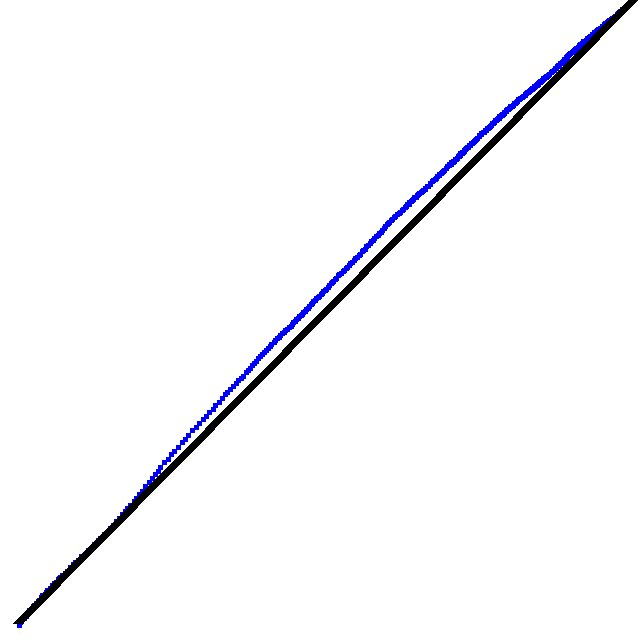
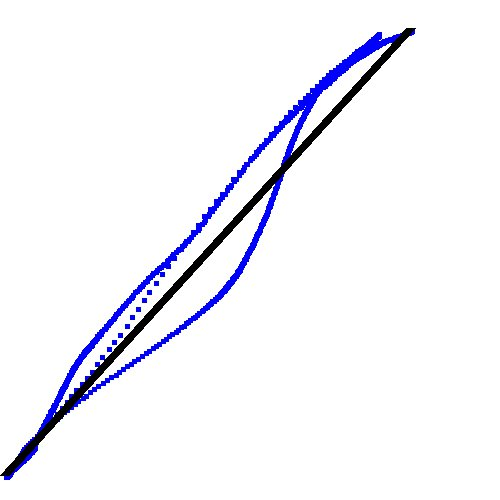
all xz plane directions complete commit 5

Changed region(s): [[0.0, 0.03, 0.96, 0.99], [0.96, 0.0, 1.0, 0.03]]

diff --git a/drawInputBetter.py b/drawInputBetter.py
@@ -4,6 +4,7 @@ import cv2
 import os
 import time
 from djitellopy import Tello
+import math
 
 class UserStrokeInput:
     def __init__(self):
@@ -11,11 +12,11 @@ class UserStrokeInput:
         self.testimg2 = None
         self.pos1 = None
         self.pos2 = None
-        self.scalar = .05
-        self.timeConst = .3
+        self.distscalar = .056
+        self.timeConst = .4
     def input_image(self):
         pygame.init()
-        screen = pygame.display.set_mode((640, 640))
+        screen = pygame.display.set_mode((500, 500))
         pygame.display.set_caption("Insert Dance Move (Single Straight Line)")
         white_color = pygame.Color(255, 255, 255)
         blue_color = pygame.Color(0, 0, 255)
@@ -43,7 +44,7 @@ class UserStrokeInput:
             if(loop == False):
                 pygame.image.save(screen,"screenshot.jpg")
                 self.img = cv2.imread('screenshot.jpg', 0)
-                time.sleep(3)
+                # time.sleep(3)
                 pygame.quit()
                 break
             
@@ -60,16 +61,18 @@ class UserStrokeInput:
 
     def convertInpToMove(self):
         x1 = self.pos1[0]
-        y1 = 640 - self.pos1[1]
+        y1 = 500 - self.pos1[1]
         x2 = self.pos2[0]
-        y2 = 640 - self.pos2[1]
-        x_movement = self.scalar * (x2 - x1)
-        y_movement = self.scalar * (y2 - y1)
+        y2 = 500 - self.pos2[1]
+        x_movement = self.distscalar * (x2 - x1)
+        y_movement = self.distscalar * (y2 - y1)
         #cm/s
-        velx = x_movement/self.timeConst
-        vely = y_movement/self.timeConst
+        dist = math.sqrt(x_movement**2 + y_movement**2)
+        speed = dist/self.timeConst
+        # velx = x_movement/self.timeConst
+        # vely = y_movement/self.timeConst
 
-        return (velx, vely)
+        return (int(x_movement), int(y_movement), int(speed))
 
 
     def setScalar(self, input):
@@ -81,11 +84,15 @@ class UserStrokeInput:
 
 inp = UserStrokeInput()
 inp.input_image()
-inp.printImage()
+# inp.printImage()
 print(inp.getCoords())
 vals = inp.convertInpToMove()
 print(vals)
-# drone = Tello()
-# Tello.connect()
-# blueColor = (0, 0, 255)
-# pygame.display.update() #call everytime
+drone = Tello()
+drone.connect()
+drone.takeoff()
+# drone.send_rc_control(vals[0], 0, vals[1], 0)
+# time.sleep(inp.timeConst)
+# drone.send_rc_control(0, 0, 0, 0)
+drone.go_xyz_speed(0, vals[0], vals[1], vals[2])
+drone.land()
